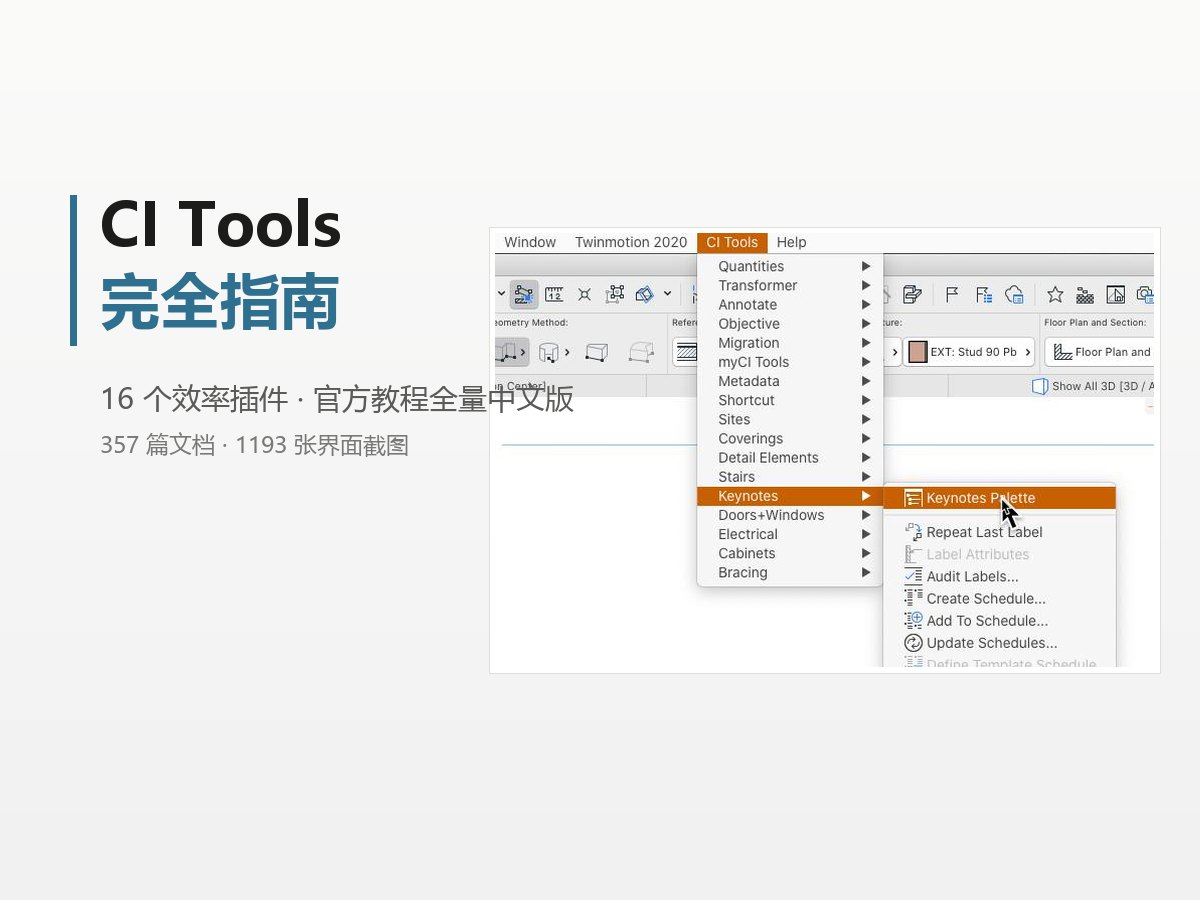
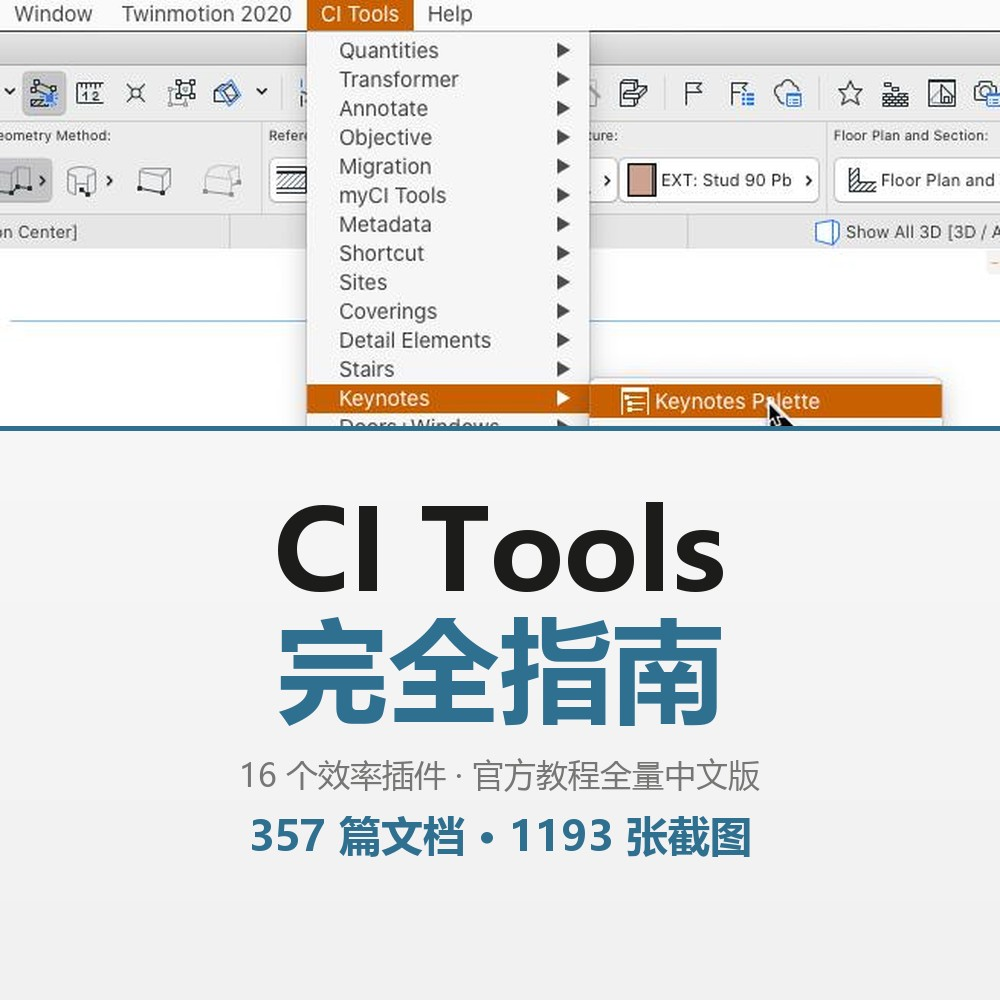
CI Tools 封面重做为正方形，适配 resources 卡片裁切

Changed region(s): [[0.0, 0.0, 1.0, 0.8711]]

diff --git a/debug_log_1.md b/debug_log_1.md
@@ -129,3 +129,54 @@ tar czf - -C resources AC_Tutorial/ci_tools/site | \
 
 - 33 张图官方源站已失效，已用占位说明替代
 - 英文原文 357 篇保持原文收录（未逐篇精译），中文主线已覆盖 16 个工具的核心操作
+
+---
+
+## 2026-11-05 10:30 — 修订：主站资源下拉 + 封面优化
+
+| 项 | 内容 |
+|---|---|
+| 模块 | `index.html`（主站导航）、`resources/AC_Tutorial/ci_tools/cover.jpg` |
+| 变更简述 | 主站右上角「资源」改为下拉菜单（5 项）；CI Tools 封面重做为正方形适配卡片裁切 |
+| 备注 | 已部署上线并浏览器实测通过 |
+
+### 主站资源下拉
+
+复用既有 `.nav-dropdown` 机制（与「AI工具」下拉同款），新增 `#resDropdown`：
+
+```html
+<li class="nav-dropdown" id="resDropdown">
+    <a href="./resources/index.html" class="nav-cta resource-cta nav-dropdown-toggle"
+       data-i18n="nav-other" onclick="toggleResDropdown(event)">资源</a>
+    <ul class="nav-dropdown-menu"> ... 5 项 ... </ul>
+</li>
+```
+
+菜单项：全部资源 / Archicad CI Tools 完全指南 / 澳洲设计实务资料包 / Vibe Coding 学员实践手册 / 用魔法创建魔法
+
+**配套改动**：
+- `toggleResDropdown(e)` —— 移动端（≤768px）点击切换 `.open`，PC 端 CSS `:hover` 展开
+- 点击外部自动关闭（复用 AI 下拉的 document 监听，追加 `resDropdown` 判断）
+- i18n 中英词典各补 5 个 key（`nav-res-all` / `nav-res-citools` / `nav-res-autrain` / `nav-res-vibe` / `nav-res-magic`）
+- 定位修正：`#resDropdown > .nav-dropdown-toggle` 抬 `z-index:103`，避免菜单遮挡触发按钮
+
+### 封面优化
+
+**问题**：`.article-thumb` 是 150×150 正方形 + `object-fit:cover`，原 1200×900 横版封面被裁掉两侧，标题全部丢失。
+
+**解决**：改为 1000×1000 正方形，重新布局：
+
+```
+┌─────────────────────┐
+│  CI Tools 菜单截图    │  ← 上部 43%，品牌色横线分隔
+├─────────────────────┤
+│      CI Tools        │  ← 112px 特大字
+│      完全指南        │  ← 蓝色
+│  16 个效率插件 · …    │  ← 灰色小字
+│  357 篇文档 · 1193 图 │  ← 蓝色粗体
+└─────────────────────┘
+```
+
+截图裁剪自 `site/img/206662343_0.jpg`（CI Tools 完整菜单树），取原图上 74% 保留菜单主体。
+
+实测 150×150 缩略图下「CI Tools 完全指南」清晰可辨。
